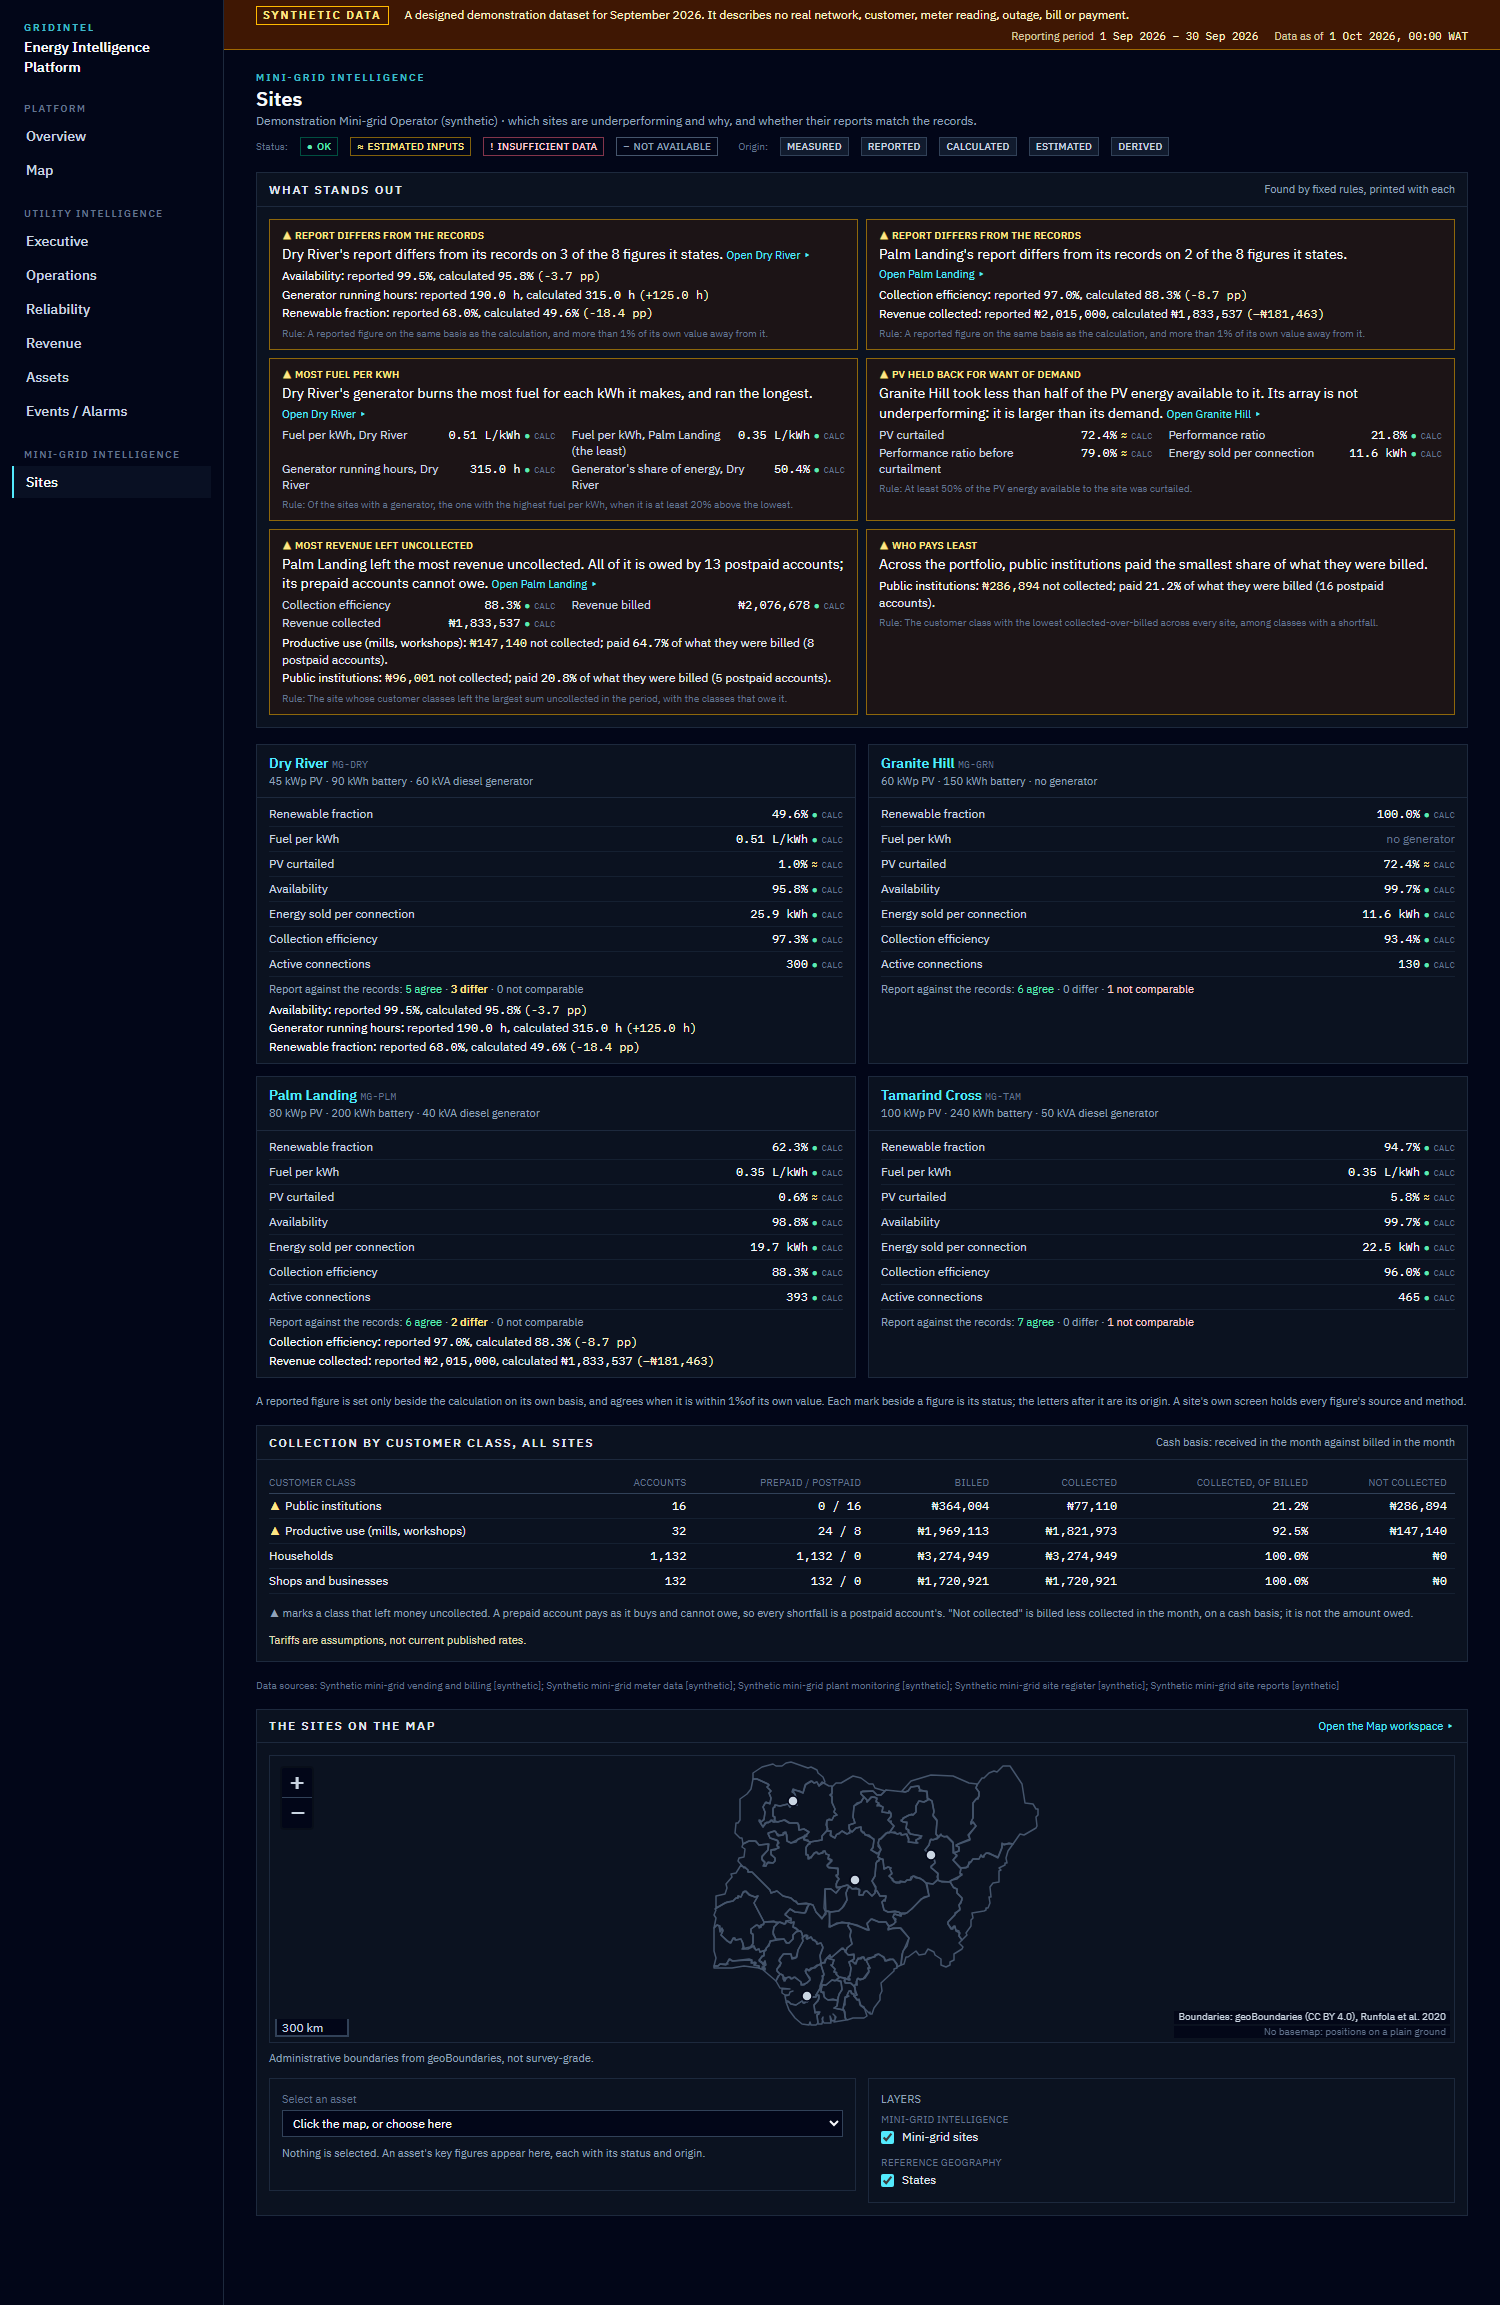
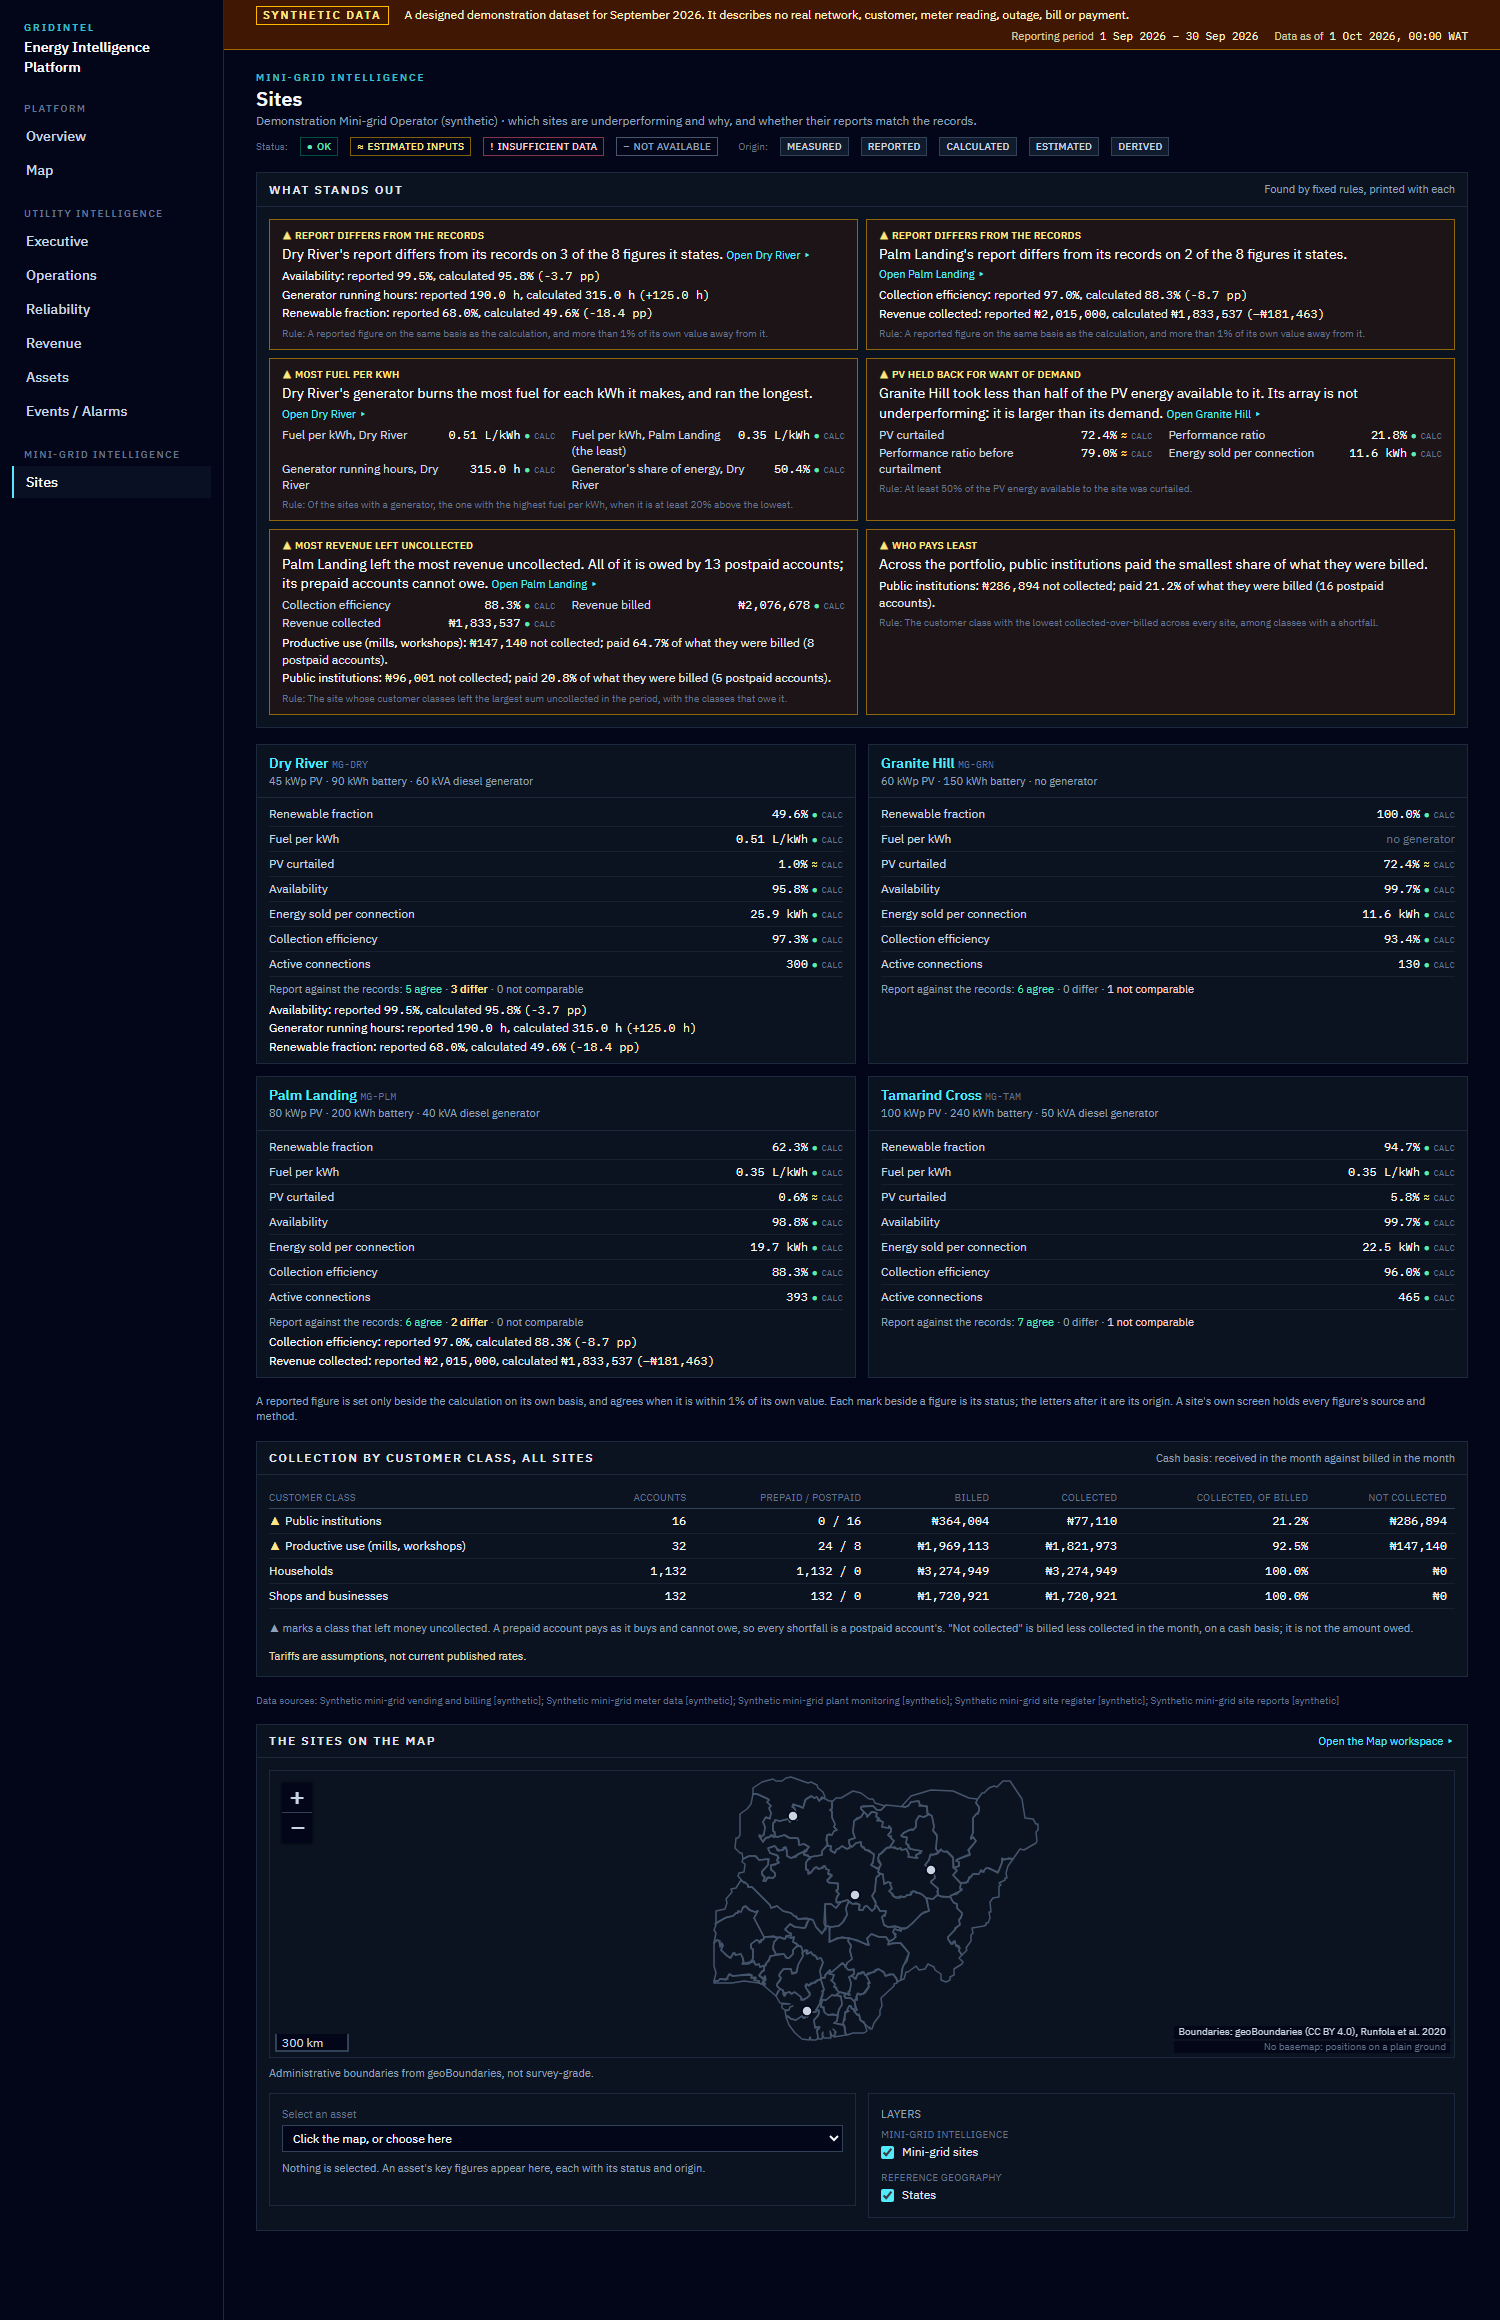
fix(minigrid): the space in "within 1% of its own value" under the site cards, held by a browser test

diff --git a/src/components/minigrid/Portfolio.tsx b/src/components/minigrid/Portfolio.tsx
@@ -135,8 +135,9 @@ export function MinigridPortfolio({ view }: { view: MinigridPortfolioView }) {
         ))}
       </div>
       <Note>
-        A reported figure is set only beside the calculation on its own basis, and agrees when it is within {formatPercent(view.agreementTolerance, 0)} of its own value. Each mark beside
-        a figure is its status; the letters after it are its origin. A site&apos;s own screen holds every figure&apos;s source and method.
+        {/* One string: text that follows an expression and runs over a line break loses its leading space. */}
+        {`A reported figure is set only beside the calculation on its own basis, and agrees when it is within ${formatPercent(view.agreementTolerance, 0)} of its own value. `}
+        Each mark beside a figure is its status; the letters after it are its origin. A site&apos;s own screen holds every figure&apos;s source and method.
       </Note>
 
       {view.byClass.length > 0 ? (

diff --git a/e2e/minigrid.spec.ts b/e2e/minigrid.spec.ts
@@ -60,6 +60,7 @@ test("the four sites are side by side on the same figures, each with its status 
   await expect(card(page, "MG-GRN").locator('[data-figure="Fuel per kWh"]')).toContainText("no generator");
   await expect(card(page, "MG-GRN").locator('[data-figure="PV curtailed"]').locator('[aria-label="Estimated inputs"]')).toBeVisible();
   await expect(card(page, "MG-TAM").locator("[data-report-standing]")).toHaveText("7 agree · 0 differ · 1 not comparable");
+  await expect(page.getByText("agrees when it is within 1% of its own value. Each mark beside a figure is its status")).toBeVisible();
 
   // Collection by class over every site: only postpaid accounts owe.
   const classes = page.locator('[data-table="class-portfolio"]');
